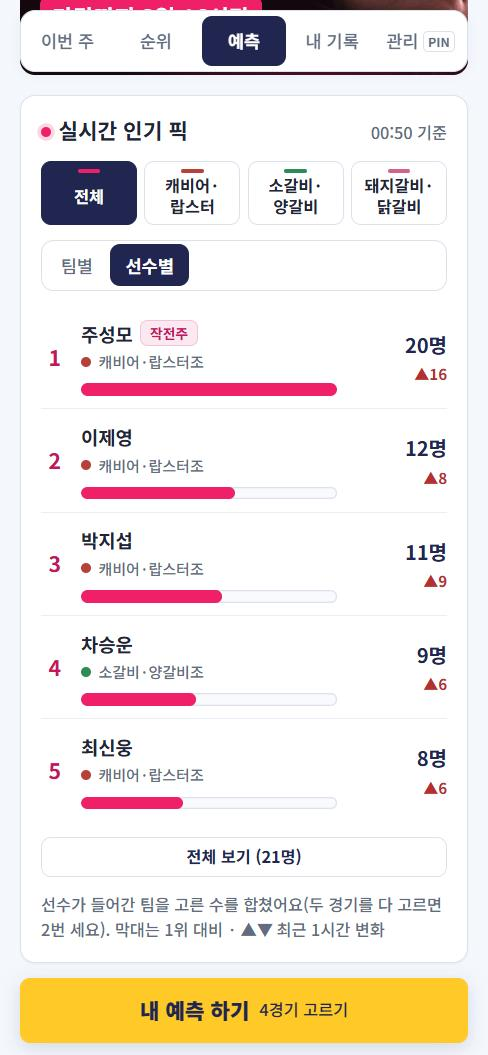
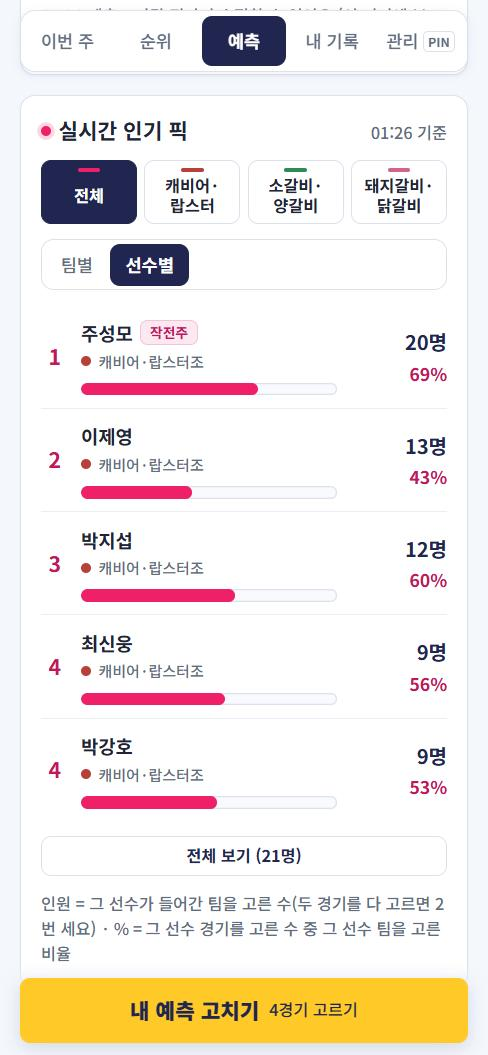
인기 픽: 경기별 양 팀 카드(%·인원·100% 막대, 인기 픽·역배 후보), 조별 슈퍼매치 배지, 선수별 비율

diff --git a/app.js b/app.js
@@ -206,6 +206,8 @@
         (ui.admin ? '<button class="btn primary" data-act="tab" data-v="admin">편성하러 가기</button>' : '') + '</div>';
       return out;
     }
+    if (predWeek()) ensurePredWeek(w.date);
+    var sm = predWeek() ? superMap(w) : {};
     var done = w.matches.filter(function (m) { return m.win; }).length;
     out += '<div class="daybar"><h2 class="day num">' + md(w.date) + '(수) 공식전</h2><dl class="facts"><div><dt>참석</dt><dd class="num">' + Object.keys(w.attendees).length + '명</dd></div><div><dt>경기</dt><dd class="num">' + w.matches.length + '</dd></div><div><dt>결과 입력</dt><dd class="num">' + done + '/' + w.matches.length + '</dd></div></dl></div>';
     if (ui.admin && !w.published) out += '<div class="banner warn">회원에게는 아직 안 보이는 편성이에요. 관리 › 공개에서 공개할 수 있어요.</div>';
@@ -220,7 +222,7 @@
       out += '<section class="group g' + g.id + '">' + teamBanner(g, [Object.keys(ppl).length + '명', ms.length + '경기', dn === ms.length ? '결과 완료' : '결과 ' + dn + '/' + ms.length]) + '<div class="match-list">';
       ms.forEach(function (m, i) {
         var state = m.win ? '<span class="m-state done">결과 입력됨</span>' : '<span class="m-state">결과 대기</span>';
-        out += '<article class="match' + (m.win ? ' decided' : '') + '"><div class="m-head"><span class="m-no num">' + (i + 1) + '경기</span>' + state + '</div><div class="m-teams">';
+        out += '<article class="match' + (m.win ? ' decided' : '') + '"><div class="m-head"><span class="m-no num">' + (i + 1) + '경기</span>' + (sm[m.id] ? '<span class="chip super num">🔥 슈퍼매치 · ' + sm[m.id] + '명 참여</span>' : '') + state + '</div><div class="m-teams">';
         ['a', 'b'].forEach(function (side, si) {
           var st = m.win ? (m.win === side ? ' win' : ' lose') : '';
           var names = '<span class="names">' + m[side].map(function (pid) { return plHtml(pid, m, w.date, P); }).join('<span class="sep">·</span>') + '</span>';
@@ -459,7 +461,7 @@
       return;
     }
     if (rerender) { render(); return; }
-    if (ui.tab === 'plan' && d && !isClosed(d) && (!pred.watch || !pred.watch.live()) && !pred.loading &&
+    if ((ui.tab === 'plan' || ui.tab === 'week') && d && d === ui.week && !isClosed(d) && (!pred.watch || !pred.watch.live()) && !pred.loading &&
       Date.now() - pred.at > 20000 && document.visibilityState !== 'hidden') refreshPred();
   }
 
@@ -477,17 +479,18 @@
   function predNotReady() {
     return pred.ok === false ? '<div class="card"><b>예측 정보를 불러오지 못했어요.</b><p class="small muted">인터넷 연결을 확인하고 다시 시도해 주세요. 계속 안 되면 돼장에게 알려 주세요.</p><div><button class="btn sm" data-act="pred-retry">다시 시도</button></div></div>' : '';
   }
-  // 인기 픽: 조 탭(전체·조별) × 보기(팀별·선수별). 막대는 회색 바탕 안에 색 채움
+  // 인기 픽 집계 원본: 마감 전에는 실시간 집계(prediction_counts), 마감 후에는 마감 시점 스냅숏(prediction_close)으로 고정
+  function popCounts(w) { return isClosed(w.date) && pred.close.length ? pred.close : pred.counts; }
+  // 조별 슈퍼매치 {경기 id: 예측 인원}. 아직 못 읽었으면 빈 값
+  function superMap(w) { return pred.week === w.date && pred.ok ? L.superMatches(popCounts(w), w) : {}; }
+  // 인기 픽: 조 탭(전체·조별) × 보기(팀별·선수별)
+  // 팀별 = 경기 하나가 카드 하나(양 팀 %·인원, 100% 막대). 선수별 = 선수가 들어간 팀을 고른 수 순위
   function viewPopular(w, P, closed) {
     var g = ui.pred.filter || '', byPlayer = ui.pred.view === 'player';
     var wf = g ? { date: w.date, matches: w.matches.filter(function (m) { return m.pool === g; }) } : w;
-    var ch = closed ? {} : L.pickChanges(pred.events, Date.now()), badge = L.pickBadges(pred.counts, w);
-    var list = byPlayer ? L.playerPicks(pred.counts, wf, ch) : L.popularPicks(pred.counts, wf);
-    var shown = ui.pred.more ? list : list.slice(0, 5);
-    var move = function (c) { return c > 0 ? '<span class="mv-up">▲' + c + '</span>' : c < 0 ? '<span class="mv-down">▼' + (-c) + '</span>' : ''; };
-    var bar = function (x) { return '<span class="pp-bar" aria-hidden="true"><i style="width:' + Math.max(2, Math.round(x * 100)) + '%"></i></span>'; };
+    var cs = popCounts(w), fixed = closed && cs === pred.close;
     var out = '<div class="card pp"><div class="pp-head"><h2><span class="live-dot" aria-hidden="true"></span>' + (closed ? '마감 인기 픽' : '실시간 인기 픽') + '</h2>' +
-      (pred.at ? '<span class="small muted num">' + hhmm(pred.at) + ' 기준</span>' : '') + '</div>' +
+      (fixed ? '<span class="small muted">마감 시점 집계</span>' : pred.at ? '<span class="small muted num">' + hhmm(pred.at) + ' 기준</span>' : '') + '</div>' +
       '<div class="gsel pp-groups" role="group" aria-label="조">' + [{ id: '', name: '전체' }].concat(groups()).map(function (x) {
         return '<button class="' + (x.id ? 'g' + x.id : 'gall') + '" data-act="pp-filter" data-v="' + x.id + '" aria-pressed="' + (g === x.id) + '">' + esc(x.name).split('·').join('·<br>') + '</button>';
       }).join('') + '</div>' +
@@ -495,26 +498,47 @@
         return '<button data-act="pp-view" data-v="' + o[0] + '" aria-pressed="' + ((byPlayer ? 'player' : 'team') === o[0]) + '">' + o[1] + '</button>';
       }).join('') + '</div>';
     if (pred.ok === null) return out + '<p class="small muted">불러오는 중…</p></div>';
-    if (!list.length) return out + '<p class="small muted">' + (g ? gname(g) + '조 경기를 고른 사람이 아직 없어요.' : '아직 제출이 없어요. 첫 예측을 해 보세요!') + '</p></div>';
-    var top = list[0].n;
-    out += '<ol class="pp-list">' + shown.map(function (r) {
-      if (byPlayer) {
+    var board = L.matchBoard(cs, wf);
+    if (!board.some(function (x) { return x.total > 0; })) {
+      return out + '<p class="small muted">' + (g ? gname(g) + '조 경기를 고른 사람이 아직 없어요.' : '아직 제출이 없어요. 첫 예측을 해 보세요!') + '</p></div>';
+    }
+    if (byPlayer) {
+      var list = L.playerPicks(cs, wf), sneaky = L.pickBadges(cs, w).sneaky;
+      var shown = ui.pred.more ? list : list.slice(0, 5);
+      out += '<ol class="pp-list">' + shown.map(function (r) {
         var p = P[r.player] || {};
         return '<li class="pp-row"><span class="pp-rank num">' + r.rank + '</span><div class="pp-main"><div class="pp-name"><b>' + esc(p.name || '?') + '</b>' +
-          (r.player === badge.sneaky ? '<span class="chip sneaky">작전주</span>' : '') + '</div>' +
-          (p.group ? '<span class="pp-sub gdot g' + p.group + '">' + esc(gname(p.group)) + '조</span>' : '') + bar(r.n / top) + '</div>' +
-          '<div class="pp-nums"><b class="num">' + r.n + '명</b><span class="num">' + move(r.change) + '</span></div></li>';
-      }
-      var m = matchById(w, r.match), k = r.match + r.side;
-      var tags = (badge.upper[k] ? '<span class="chip up">상한가</span>' : '') + (badge.sneaky && m[r.side].indexOf(badge.sneaky) >= 0 ? '<span class="chip sneaky" title="' + esc((P[badge.sneaky] || {}).name || '') + ' 이번 주 가장 많이 걸림">작전주</span>' : '');
-      return '<li class="pp-row"><span class="pp-rank num">' + r.rank + '</span><div class="pp-main"><div class="pp-name"><b>' + esc(teamText(m, r.side, P)) + '</b>' + tags + '</div>' +
-        '<span class="pp-sub gdot g' + m.pool + '">' + esc(matchLabel(w, m)) + '</span>' + bar(r.share) + '</div>' +
-        '<div class="pp-nums"><b class="num">' + r.n + '명</b><span class="num">' + (ch[k] ? move(ch[k]) + ' · ' : '') + pct(r.share) + '%</span></div></li>';
+          (r.player === sneaky ? '<span class="chip sneaky">작전주</span>' : '') + '</div>' +
+          (p.group ? '<span class="pp-sub gdot g' + p.group + '">' + esc(gname(p.group)) + '조</span>' : '') +
+          '<span class="pp-bar" aria-hidden="true"><i style="width:' + (r.share * 100).toFixed(2) + '%"></i></span></div>' +
+          '<div class="pp-nums"><b class="num">' + r.n + '명</b><b class="pp-pct num">' + pct(r.share) + '%</b></div></li>';
+      }).join('') + '</ol>';
+      if (list.length > 5) out += '<button class="btn sm" data-act="pp-more">' + (ui.pred.more ? '접기' : '전체 보기 (' + list.length + '명)') + '</button>';
+      return out + '<p class="small muted">인원 = 그 선수가 들어간 팀을 고른 수(두 경기를 다 고르면 2번 세요) · % = 그 선수 경기를 고른 수 중 그 선수 팀을 고른 비율</p></div>';
+    }
+    var sm = L.superMatches(cs, w);
+    board.sort(function (x, y) { return y.total - x.total || x.index - y.index; });
+    var cards = g || ui.pred.more ? board : board.slice(0, 5);
+    out += '<ol class="mb-list">' + cards.map(function (x) {
+      var m = matchById(w, x.match);
+      var no = w.matches.filter(function (y) { return y.pool === m.pool; }).indexOf(m) + 1;
+      var title = no + '경기' + (poolOrder(m.pool) === 99 ? '' : ' · ' + gname(m.pool) + '조');
+      var team = function (k) {
+        var t = x[k];
+        return '<div class="mb-team ' + k + '"><span class="mb-name">' + esc(teamText(m, k, P)) + '</span>' +
+          '<span class="mb-fig"><b class="num">' + (x.total ? pct(t.share) + '%' : '–') + '</b><span class="num">' + t.n + '명</span></span>' +
+          (t.badge === 'hot' ? '<span class="chip hot">인기 픽</span>' : t.badge === 'under' ? '<span class="chip under">역배 후보</span>' : '') + '</div>';
+      };
+      var wa = x.total ? x.a.n / x.total * 100 : 0;
+      return '<li class="mb"><div class="mb-head"><span class="mb-title gdot g' + m.pool + ' num">' + esc(title) + '</span>' +
+        (sm[x.match] ? '<span class="chip super">🔥 슈퍼매치</span>' : '') + '</div>' +
+        '<div class="mb-teams">' + team('a') + team('b') + '</div>' +
+        '<div class="mb-bar" role="img" aria-label="' + esc(teamText(m, 'a', P)) + ' ' + pct(x.a.share) + '%, ' + esc(teamText(m, 'b', P)) + ' ' + pct(x.b.share) + '%">' +
+        (x.total ? '<i class="a" style="width:' + wa.toFixed(2) + '%"></i><i class="b" style="width:' + (100 - wa).toFixed(2) + '%"></i>' : '') + '</div>' +
+        '<span class="mb-total num">' + (x.total ? '총 ' + x.total + '명 참여' : '아직 고른 사람이 없어요') + '</span></li>';
     }).join('') + '</ol>';
-    if (list.length > 5) out += '<button class="btn sm" data-act="pp-more">' + (ui.pred.more ? '접기' : '전체 보기 (' + list.length + (byPlayer ? '명' : '팀') + ')') + '</button>';
-    out += '<p class="small muted">' + (byPlayer ? '선수가 들어간 팀을 고른 수를 합쳤어요(두 경기를 다 고르면 2번 세요). 막대는 1위 대비' :
-      '막대·%는 그 경기를 고른 사람 중 이 팀을 고른 비율 · 상한가: 70% 이상 · 작전주: 이번 주 가장 많이 걸린 선수') + (closed ? '' : ' · ▲▼ 최근 1시간 변화') + '</p>';
-    return out + '</div>';
+    if (!g && board.length > 5) out += '<button class="btn sm" data-act="pp-more">' + (ui.pred.more ? '접기' : '전체 보기 (' + board.length + '경기)') + '</button>';
+    return out + '<p class="small muted">많이 고른 경기부터 보여요. % = 그 경기를 고른 사람 중 그 팀을 고른 비율 · 인기 픽 70% 초과 · 역배 후보 30% 미만(' + L.PREDICT.badgeMin + '명 이상 고른 경기만) · 🔥 슈퍼매치 = 조에서 가장 많이 고른 경기. 회원들의 선택 분포이고 승리 확률은 아니에요.</p></div>';
   }
   function viewFeed(w, P) {
     var ev = pred.events.filter(function (e) { return e.delta > 0; }).slice(0, 3);
@@ -573,12 +597,12 @@
     out += '<div class="pe-step"><h3>경기 선택 <span class="num">' + n + '/' + max + '</span></h3><span class="pe-dots" aria-hidden="true">' +
       [0, 1, 2, 3].map(function (i) { return '<i' + (i < n ? ' class="on"' : '') + '></i>'; }).join('') + '</span></div>' +
       '<p class="small muted">서로 다른 4경기에서 이길 팀을 눌러 주세요. 내 경기도 고를 수 있어요.</p>';
-    var tot = {};
+    var tot = {}, sm = superMap(w);
     pred.counts.forEach(function (c) { var k = c.match_id + c.side; tot[k] = (tot[k] || 0) + c.n; });
     out += '<div class="pe-list">' + w.matches.map(function (m) {
       var sel = d.picks.filter(function (p) { return p.match === m.id; })[0], full = n >= max && !sel;
       var na = tot[m.id + 'a'] || 0, nb = tot[m.id + 'b'] || 0, t = na + nb;
-      return '<article class="pe-match' + (full ? ' dim' : '') + '"><div class="pe-mhead"><span class="gdot g' + m.pool + '">' + esc(matchLabel(w, m)) + '</span>' +
+      return '<article class="pe-match' + (full ? ' dim' : '') + '"><div class="pe-mhead"><span class="gdot g' + m.pool + '">' + esc(matchLabel(w, m)) + '</span>' + (sm[m.id] ? '<span class="chip super">🔥 슈퍼매치</span>' : '') +
         '<span class="num muted small">' + (t ? pct(na / t) + ' : ' + (100 - pct(na / t)) : '아직 0명') + '</span></div><div class="pe-teams">' + ['a', 'b'].map(function (side) {
           var on = !!sel && sel.side === side;
           return '<button class="pe-team" data-act="pe-pick" data-m="' + m.id + '" data-side="' + side + '" aria-pressed="' + on + '"' + (full ? ' disabled' : '') + '>' +

diff --git a/logic.js b/logic.js
@@ -586,6 +586,8 @@ var Logic = (function () {
     bonus: { high: { hit: 3, miss: -1 }, safe: { hit: 1, miss: 0 } },
     upperShare: 0.7,                            // 🔺상한가: 한 경기 안에서 이 비율 이상
     changeWindowMs: 3600e3,                     // 인기 픽 ▲▼: 최근 1시간 증감
+    hotShare: 0.7, underShare: 0.3,             // 인기 픽 배지: 70% 초과 / 역배 후보: 30% 미만
+    badgeMin: 5,                                // 그 경기를 고른 사람이 이보다 적으면 배지 없음
   };
   function predictionDeadline(weekDate) {
     var p = String(weekDate).split('-');
@@ -685,10 +687,40 @@ var Logic = (function () {
         ch[pid] = (ch[pid] || 0) + ((changes && changes[k]) || 0);
       });
     });
-    var list = Object.keys(load).map(function (pid) { return { player: pid, n: load[pid], change: ch[pid] }; })
+    // 선택 비율의 분모: 그 선수가 뛰는 경기들을 고른 수 (상대 팀만 고른 경기도 포함)
+    var tot = {};
+    (week.matches || []).forEach(function (m) {
+      var t = s.totals[m.id] || 0;
+      if (t) m.a.concat(m.b).forEach(function (pid) { if (pid) tot[pid] = (tot[pid] || 0) + t; });
+    });
+    var list = Object.keys(load).map(function (pid) { return { player: pid, n: load[pid], total: tot[pid], share: load[pid] / tot[pid], change: ch[pid] }; })
       .sort(function (a, b) { return b.n - a.n || (a.player < b.player ? -1 : 1); });
     list.forEach(function (r, i) { r.rank = i > 0 && list[i - 1].n === r.n ? list[i - 1].rank : i + 1; });
     return list;
+  }
+  // 경기별 양 팀 현황(팀별 인기 픽 카드): 그 주 경기 순서대로, 아무도 안 고른 경기도 포함
+  // → [{match, pool, index, total, a:{n, share, badge}, b:{…}}]  share 분모는 그 경기를 고른 인원(양 팀 합)
+  // badge: 'hot' 인기 픽(hotShare 초과) / 'under' 역배 후보(underShare 미만) / '' — 고른 사람이 badgeMin 미만이면 ''
+  // 한 사람은 서로 다른 4경기만 고를 수 있으므로 양 팀 인원의 합 = 그 경기를 예측한 서로 다른 회원 수
+  function matchBoard(counts, week) {
+    var s = sumCounts(counts, week);
+    return (week && week.matches || []).map(function (m, i) {
+      var total = s.totals[m.id] || 0;
+      var side = function (k) {
+        var n = (s.sides[m.id + k] || { n: 0 }).n, share = total ? n / total : 0;
+        var badge = total < PREDICT.badgeMin ? '' : share > PREDICT.hotShare ? 'hot' : share < PREDICT.underShare ? 'under' : '';
+        return { n: n, share: share, badge: badge };
+      };
+      return { match: m.id, pool: m.pool, index: i, total: total, a: side('a'), b: side('b') };
+    });
+  }
+  // 조별 슈퍼매치: 조(pool)마다 예측 인원이 가장 많은 경기(공동 1위는 모두, 0명인 조는 없음) → {matchId: 인원}
+  function superMatches(counts, week) {
+    var best = {}, out = {};
+    var board = matchBoard(counts, week).filter(function (x) { return x.total > 0; });
+    board.forEach(function (x) { if (!(best[x.pool] >= x.total)) best[x.pool] = x.total; });
+    board.forEach(function (x) { if (x.total === best[x.pool]) out[x.match] = x.total; });
+    return out;
   }
   // 🔺상한가: 경기 안 70% 이상인 쪽 / 🕵작전주: 고른 인원이 가장 많이 걸린 선수 1명(동률이면 id 순)
   function pickBadges(counts, week) {
@@ -743,7 +775,7 @@ var Logic = (function () {
   return {
     PREDICT: PREDICT, predictionDeadline: predictionDeadline, isPredictionClosed: isPredictionClosed, validatePicks: validatePicks,
     scorePrediction: scorePrediction, bonusByPlayer: bonusByPlayer, popularPicks: popularPicks, pickChanges: pickChanges,
-    pickBadges: pickBadges, playerPicks: playerPicks, closeFromPredictions: closeFromPredictions, closingReport: closingReport,
+    pickBadges: pickBadges, playerPicks: playerPicks, matchBoard: matchBoard, superMatches: superMatches, closeFromPredictions: closeFromPredictions, closingReport: closingReport,
     encodeSeeds: encodeSeeds, decodeSeeds: decodeSeeds, parseOrder: parseOrder, strengthOf: strengthOf, balanceOf: balanceOf,
     mulberry32: mulberry32, wednesdays: wednesdays, seasonDays: seasonDays, isOfficial: isOfficial, playersOf: playersOf,
     weekTally: weekTally, standings: standings, tierOf: tierOf, skillOf: skillOf, HEAT: HEAT,

diff --git a/logic.test.js b/logic.test.js
@@ -699,6 +699,46 @@ test('playerPicks: 최근 증감(pickChanges 결과)을 선수별로 합침, 고
   assert.deepStrictEqual(only2.map(x => [x.player, x.n, x.rank]), [['a', 2, 1], ['b', 2, 1], ['e', 2, 1], ['f', 2, 1]]);
   assert.deepStrictEqual(L.playerPicks([], PW), []);
 });
+test('playerPicks: 선택 비율 = 그 선수 경기를 고른 수 중 그 선수 팀을 고른 수 (상대 팀만 고른 경기도 분모에 포함)', () => {
+  const r = L.playerPicks(COUNTS, PW);
+  const get = id => r.find(x => x.player === id);
+  // a: p1(12명) + p2(4명) 중 11 / c: p1(12명) + p3(0명) 중 3 / e: p2(4명) + p3(0명) 중 2
+  assert.deepStrictEqual([get('a').total, get('a').share], [16, 11 / 16]);
+  assert.deepStrictEqual([get('c').total, get('c').share], [12, 0.25]);
+  assert.deepStrictEqual([get('e').total, get('e').share], [4, 0.5]);
+});
+test('matchBoard: 경기별 양 팀 인원·비율(분모는 그 경기를 고른 인원), 0명 경기도 오류 없이 포함', () => {
+  const r = L.matchBoard(COUNTS, PW);
+  assert.deepStrictEqual(r.map(x => [x.match, x.pool, x.total, x.a.n, x.b.n]), [['p1', 'A', 12, 9, 3], ['p2', 'A', 4, 2, 2], ['p3', 'A', 0, 0, 0], ['p4', 'B', 0, 0, 0], ['p5', 'B', 0, 0, 0]]);
+  assert.deepStrictEqual([r[0].a.share, r[0].b.share], [0.75, 0.25]);
+  assert.deepStrictEqual([r[2].a.share, r[2].b.share, r[2].a.badge, r[2].b.badge], [0, 0, '', '']);
+  assert.deepStrictEqual(L.matchBoard([], PW).map(x => x.total), [0, 0, 0, 0, 0]);
+});
+test('matchBoard 배지: 70% 초과 인기 픽(hot), 30% 미만 역배 후보(under), 고른 사람이 5명 미만이면 배지 없음', () => {
+  const b = (s, id) => { const m = L.matchBoard(C(s), PW).find(x => x.match === (id || 'p1')); return [m.a.badge, m.b.badge]; };
+  assert.deepStrictEqual(b('p1a:high:5 p1a:safe:4 p1b:high:3'), ['hot', 'under']);        // 75 : 25
+  assert.deepStrictEqual(b('p1a:high:7 p1b:high:3'), ['', '']);                            // 정확히 70 : 30은 일반
+  assert.deepStrictEqual(b('p1a:high:71 p1b:high:29'), ['hot', 'under']);
+  assert.deepStrictEqual(b('p1a:high:6'), ['hot', 'under']);                               // 한쪽 100%
+  assert.deepStrictEqual(b('p1a:high:4'), ['', '']);                                       // 4명뿐 → 배지 없음
+  assert.deepStrictEqual(b('p1a:high:3 p1b:high:1'), ['', '']);
+  assert.deepStrictEqual(b('p1a:high:3 p1b:safe:3'), ['', '']);                            // 50 : 50
+});
+test('superMatches: 조마다 예측 인원이 가장 많은 경기 (양 팀·두 방식 합산), 다른 조와는 비교하지 않음', () => {
+  // A조: p1 12명, p2 4명 / B조: p4 3명, p5 1명 → B조 1위(3명)는 A조 2위(4명)보다 적어도 슈퍼매치
+  const s = L.superMatches(C('p1a:high:5 p1a:safe:4 p1b:high:3 p2a:safe:2 p2b:high:2 p4a:high:2 p4b:safe:1 p5a:high:1'), PW);
+  assert.deepStrictEqual(s, { p1: 12, p4: 3 });
+});
+test('superMatches: 공동 1위는 모두, 예측이 없는 조는 없음, 0명·없는 경기는 무시', () => {
+  assert.deepStrictEqual(L.superMatches(C('p4a:high:2 p5b:safe:2 p1a:high:1'), PW), { p1: 1, p4: 2, p5: 2 });
+  assert.deepStrictEqual(L.superMatches(C('p1a:high:5 p3a:high:0 p9a:high:7'), PW), { p1: 5 });
+  assert.deepStrictEqual(L.superMatches([], PW), {});
+});
+test('superMatches: 마감 스냅숏(prediction_close 모양, mode 없음)으로도 같은 결과', () => {
+  const close = [{ match_id: 'p1', side: 'a', n: 9, total: 12 }, { match_id: 'p1', side: 'b', n: 3, total: 12 }, { match_id: 'p2', side: 'a', n: 4, total: 4 }, { match_id: 'p5', side: 'b', n: 2, total: 2 }];
+  assert.deepStrictEqual(L.superMatches(close, PW), { p1: 12, p5: 2 });
+  assert.deepStrictEqual(L.matchBoard(close, PW)[0].a.share, 0.75);
+});
 test('pickBadges: 상한가는 경기 안 70% 이상, 작전주는 가장 많이 걸린 선수 1명', () => {
   // p1: a 9 / b 3 → 75% 상한가. p2: 2/2 → 50%
   const b = L.pickBadges(COUNTS, PW);

diff --git a/app.css b/app.css
@@ -481,9 +481,33 @@ textarea { width: 100%; min-height: 84px; resize: vertical; }
 .pp-nums { display: grid; justify-items: end; gap: 2px; }
 .pp-nums b { font-size: 16px; font-weight: 700; color: var(--navy); }
 .pp-nums span { font-size: var(--fs-cap); font-weight: 700; color: var(--text-2); }
-.mv-up, .pp-nums .mv-up { color: var(--hell-text); }
-.mv-down, .pp-nums .mv-down { color: var(--heaven-text); }
-.chip.up { background: var(--hell-50); color: var(--hell-text); border-color: #F1CACA; }
+/* 인기 픽 배지: 인기 픽(빨강) · 역배 후보(파랑) · 슈퍼매치(노랑, 불꽃) — 뜻이 다르므로 색도 다르게 */
+.chip.hot { background: var(--hell-50); color: var(--hell-text); border-color: #F1CACA; }
+.chip.under { background: var(--heaven-50); color: var(--heaven-text); border-color: #C9DCF5; }
+.chip.super { background: var(--yellow); color: var(--navy); border-color: #E9B60F; }
+.m-head .chip.super { margin-right: auto; }
+/* 팀별 인기 픽: 경기 하나 = 카드 하나. 왼쪽 팀 navy, 오른쪽 팀 핑크로 고정 */
+.mb-list { list-style: none; margin: 0; padding: 0; display: grid; gap: 10px; }
+.mb { display: grid; gap: 8px; padding: 12px; border: 1px solid var(--line); border-radius: var(--r-card); background: var(--surface); }
+.mb-head { display: flex; flex-wrap: wrap; align-items: center; gap: 4px 8px; }
+.mb-title { font-size: 14px; color: var(--navy); }
+.mb-total { justify-self: center; font-size: 14px; font-weight: 700; color: var(--text); }
+.mb-teams { display: grid; grid-template-columns: repeat(2, minmax(0, 1fr)); gap: 12px; }
+.mb-team { display: grid; gap: 2px; justify-items: start; align-content: start; min-width: 0; }
+.mb-team.b { justify-items: end; text-align: right; }
+.mb-name { font-size: 15px; font-weight: 700; overflow-wrap: anywhere; }
+.mb-fig { display: flex; align-items: baseline; gap: 6px; }
+.mb-team.b .mb-fig { flex-direction: row-reverse; }
+.mb-fig b { font-size: 26px; font-weight: 900; line-height: 1.15; }
+.mb-fig span { font-size: 15px; font-weight: 700; color: var(--text); }
+.mb-team.a .mb-fig b { color: var(--navy); }
+.mb-team.b .mb-fig b { color: var(--plan-text); }
+.mb-bar { display: flex; height: 14px; border-radius: 7px; overflow: hidden; background: var(--line-2); box-shadow: inset 0 0 0 1px var(--line); }
+.mb-bar i { display: block; height: 100%; }
+.mb-bar i.a { background: var(--navy); }
+.mb-bar i.b { background: var(--plan); }
+.mb-bar i.a + i.b { box-shadow: -2px 0 0 #fff; }
+.pp-nums .pp-pct { font-size: 14px; color: var(--plan-text); }
 .chip.sneaky { background: #FCE8F0; color: var(--plan-text); border-color: #F5C3D7; }
 .feed { gap: 6px; }
 .feed-row { display: grid; grid-template-columns: auto auto minmax(0, 1fr) auto; gap: 8px; align-items: center; font-size: 14px; min-height: 32px; }

diff --git a/docs/deploy-log.md b/docs/deploy-log.md
@@ -598,3 +598,44 @@ $ node deploy.test.js
 | 전체 + 선수별 | 1위 14명(작전주 배지), "전체 보기 (27명)" |
 | 360px | 카드 16~344px, 마지막 조 탭 오른쪽 끝 327px, 조 탭 높이 51px, 막대 높이 10px, scrollWidth 360 |
 | PR 스크린숏 | MOCK_DEMO(seed.js 가짜 데이터)로 찍음: docs/screenshots/daebles/390-popular-team.jpg, 390-popular-player.jpg |
+
+## 22. 인기 픽 팀별 카드 개편 + 조별 슈퍼매치 (사용자 요청, 같은 브랜치 feat/daebles-popular-tabs, 2026-11-15)
+구조 확인: `prediction_counts`(경기·팀·방식별 인원)만으로 계산 가능해서 DB는 바꾸지 않음. 한 사람은 서로 다른 4경기만 고를 수 있어(서버 `pred_check`) 한 경기 양 팀 인원의 합 = 그 경기를 예측한 서로 다른 회원 수. 마감 후에는 `prediction_close`(마감 시점 스냅숏) 사용.
+```
+$ node logic.test.js   (matchBoard·superMatches·선수별 비율 테스트 6개 먼저 추가)
+  FAIL playerPicks: 선택 비율 = 그 선수 경기를 고른 수 중 그 선수 팀을 고른 수 (상대 팀만 고른 경기도 분모에 포함)
+  FAIL matchBoard: 경기별 양 팀 인원·비율(분모는 그 경기를 고른 인원), 0명 경기도 오류 없이 포함
+       L.matchBoard is not a function
+  FAIL matchBoard 배지: 70% 초과 인기 픽(hot), 30% 미만 역배 후보(under), 고른 사람이 5명 미만이면 배지 없음
+       L.matchBoard is not a function
+  FAIL superMatches: 조마다 예측 인원이 가장 많은 경기 (양 팀·두 방식 합산), 다른 조와는 비교하지 않음
+       L.superMatches is not a function
+  FAIL superMatches: 공동 1위는 모두, 예측이 없는 조는 없음, 0명·없는 경기는 무시
+       L.superMatches is not a function
+  FAIL superMatches: 마감 스냅숏(prediction_close 모양, mode 없음)으로도 같은 결과
+       L.superMatches is not a function
+104 passed
+$ node logic.test.js   (구현 후)
+110 passed
+$ node deploy.test.js
+21 passed
+```
+화면 확인 A — 실제 데이터 복사본(실제 DB를 읽기만 해서 복사) + 가짜 예측 20명, 로컬 가짜 서버 8793, 390px:
+| 확인 | 결과 |
+|---|---|
+| 팀별 카드 14개를 서버 집계(prediction_counts)에서 직접 계산한 값과 비교(인원·%·총 인원·막대 폭·배지·슈퍼매치) | 불일치 0건. 막대 폭 합 100%(예: 42.86% / 57.14%) |
+| 조별 최다 | A 7명, B 7명, C 8명 → 슈퍼매치 4경기(C조는 8명 공동 1위 2경기 모두) |
+| 조 탭 소갈비·양갈비 | 그 조 6경기만, 슈퍼매치 1경기(총 7명) |
+| 선수별 27명을 서버 집계에서 직접 계산한 값과 비교(인원·%·막대) | 불일치 0건. 1위 14명 70% |
+| 이번 주 탭 | 경기 번호 옆 "🔥 슈퍼매치 · 7명 참여" 등 4개, scrollWidth 390 |
+| 다른 사람 제출 뒤 자동 갱신(이번 주 탭을 건드리지 않고 대기, 로컬은 Realtime 대신 20초 다시 읽기) | 3명 추가 제출 → B조 2경기 6→9명. 14초 뒤 B조 슈퍼매치가 1경기(7명)→2경기(9명), A조는 1·2경기 공동(각 9명)으로 바뀜 |
+화면 확인 B — MOCK_DEMO(seed.js 가짜 데이터), 360px:
+| 확인 | 결과 |
+|---|---|
+| 11/11(마감) | "마감 인기 픽 · 마감 시점 집계". 관리자 RPC로 한 명 예측을 다른 경기로 바꾼 뒤: prediction_counts는 바뀌고 prediction_close 16행은 그대로, 카드 14개·슈퍼매치 동일 |
+| 11/18 돼지갈비·닭갈비 탭 | 5경기 중 3경기가 0명 → "– 0명 vs – 0명 / 아직 고른 사람이 없어요", 빈 막대, 오류 없음 |
+| 마감 전 `predictions` 읽기(가짜 서버 RLS 흉내) | 0행 |
+| 예측하기 화면 | 슈퍼매치 경기 3개에 배지, 제출 → "제출했어요…", 참여 14→15명 |
+| 순위·관리 › 예측(가짜 서버 PIN) | 순위표 머리글 그대로, 관리 목록 15명 |
+| 가로 넘침 | scrollWidth 360 |
+확인 못 한 것: 실제 DB의 Realtime 경로(실제 주에 제출해야 함). 한쪽 100% 카드는 가짜 데이터에 없어서 화면으로는 못 봤고 테스트(matchBoard 배지)로만 확인.

diff --git a/docs/wrong-answers.md b/docs/wrong-answers.md
@@ -18,3 +18,5 @@
 | 14 | 제출 뒤 "참여 14명"이 15명으로 안 늘어서 집계 버그라고 봄 | 고른 이름(김형준)이 가짜 데이터에 이미 예측이 있어서 덮어쓴 것. 이벤트를 읽어 보니 -1 3건·+1 3건으로 정상 | 버그 아님. 같은 사람 재제출은 인원이 늘지 않는 게 맞음 |
 | 15 | README를 Python 기본 모드(줄바꿈 변환)로 읽고 써서 고침 | README 94번째 줄에 원래 있던 제어 문자(`\r`·`\f`, 경로 `supabase\functions\rematch`가 깨진 흔적)가 줄바꿈으로 바뀌어 상관없는 줄이 diff에 잡혔음 | 되돌린 뒤 `newline=''`로 바이트 그대로 두고 다시 고침. 그 깨진 줄 자체는 이번 범위 밖이라 손대지 않음 |
 | 16 | SQL 복사 명령을 `Get-Content supabase\schema.sql -Raw \| Set-Clipboard`로 안내 | Windows PowerShell 5.1의 `Get-Content`는 BOM 없는 파일을 시스템 코드페이지(CP949)로 읽어서, 한글 주석 끝 바이트가 줄바꿈과 묶여 줄바꿈 4개가 사라짐(406줄 → 402줄). 다음 줄 `create or replace function public.prediction_match_ids…`가 주석 안으로 들어가 SQL Editor에서 `42601: syntax error at or near "language"` (LINE 213) | `-Encoding UTF8`을 붙여 안내. 기본 읽기 213번째 줄이 오류 줄과 같고, UTF8 읽기는 406줄 그대로인 것을 PowerShell에서 확인 |
+| 17 | 인기 픽 카드 머리줄에 "총 N명 참여"를 경기 이름·슈퍼매치 배지와 같은 줄에 둠 | 390px에서 슈퍼매치 배지가 있는 카드만 "총 N명 참여"가 다음 줄로 밀려서 카드마다 배치가 달라짐(스크린숏에서 발견) | "총 N명 참여"를 막대 아래 가운데로 옮겨 모든 카드가 같은 배치 |
+| 18 | 화면 코드를 바꾸는 스크립트에서 찾을 문자열을 `'<span class="m-no num">'…`처럼 따옴표로 시작하게 씀 | 실제 코드에서는 그 앞이 같은 문자열 안이라 따옴표가 없어서 0건 일치. 바꾸기 전에 건수를 확인하게 해 둬서 파일은 그대로였음(두 군데) | 따옴표 없이 찾도록 고쳐 다시 적용 |

diff --git a/README.md b/README.md
@@ -9,8 +9,8 @@
 ## 파일
 | 파일 | 내용 |
 |---|---|
-| `logic.js` | 순수 로직: 자동 편성(hill-climbing, 편성 조건 반영), 승수 집계·순위, 지옥도/천국도 등급, 시드→실력 점수, 주차 점검, 밴드 명단 파싱, 돼장 요청 계획 적용(`applyPlan`), 돼블스플랜 마감·채점·보너스·인기 픽·장 마감 리포트 |
-| `logic.test.js` | 로직 테스트 103개 |
+| `logic.js` | 순수 로직: 자동 편성(hill-climbing, 편성 조건 반영), 승수 집계·순위, 지옥도/천국도 등급, 시드→실력 점수, 주차 점검, 밴드 명단 파싱, 돼장 요청 계획 적용(`applyPlan`), 돼블스플랜 마감·채점·보너스·인기 픽(경기별·선수별)·조별 슈퍼매치·장 마감 리포트 |
+| `logic.test.js` | 로직 테스트 110개 |
 | `app.js` | 화면 렌더링·이벤트 처리. 저장은 `remote.js`를 통해 Supabase로 |
 | `remote.js` | Supabase 읽기/RPC 호출, 관리자 토큰(30일) 보관, 에러 구분(`stale_rev`, `unauthorized`, `no_pin` …) |
 | `config.js` | Supabase Project URL과 anon(publishable) key. **공개돼도 되는 값만** |
